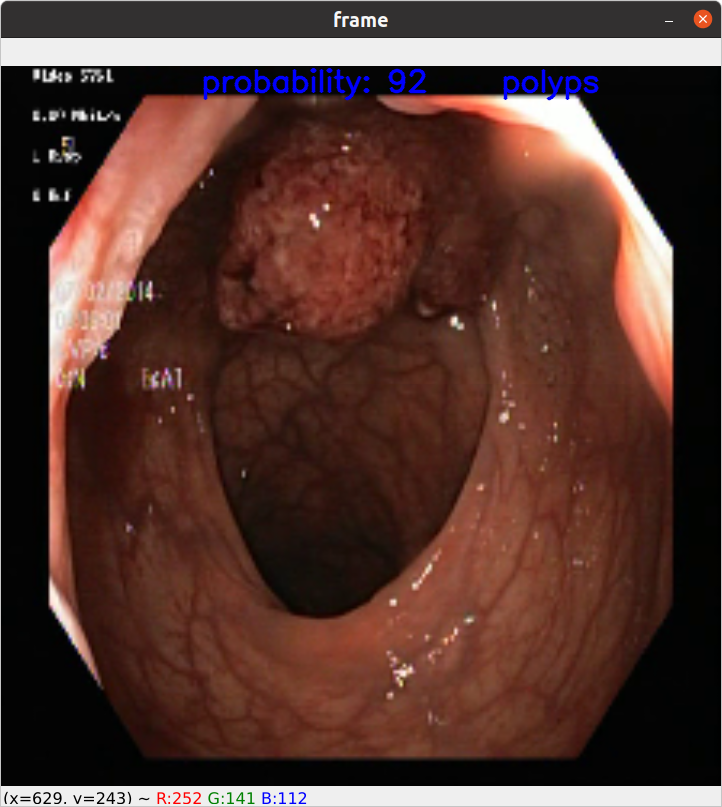
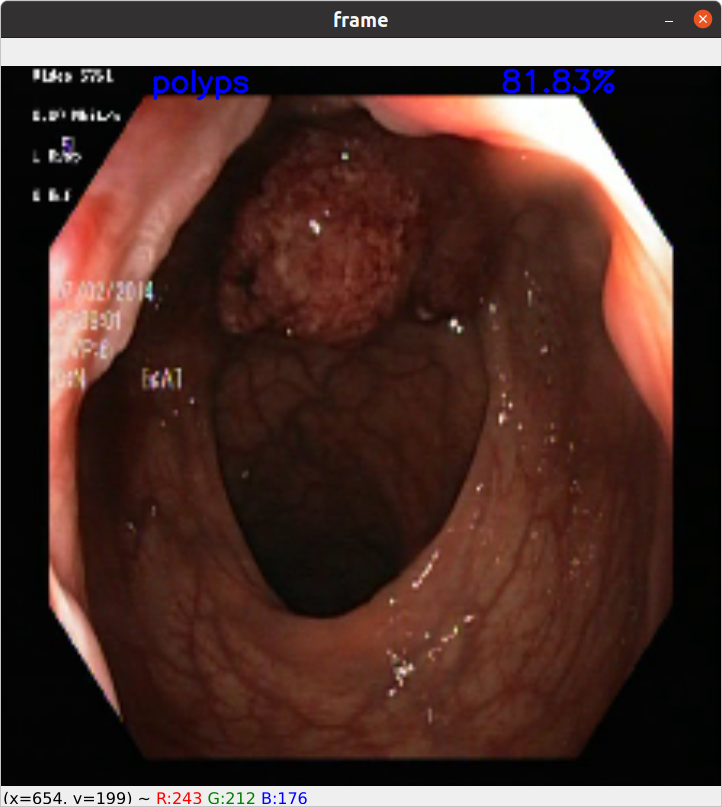
minor

diff --git a/test_on_video.py b/test_on_video.py
@@ -57,6 +57,7 @@ def visualization() -> None:
     model.load_weights('models_data/save_models/EfficientNetB0_imagenet_2021-05-18_00-39-10/EfficientNetB0.h5')
 
     cap = cv2.VideoCapture(args.path_video)
+    cap = cv2.VideoCapture('test_video/vid_2.avi')
 
     if not cap.isOpened():
         print("Error opening video stream or file")
@@ -70,8 +71,8 @@ def visualization() -> None:
             image, index_class = preparing_frame(image=frame, model=model)
             class_image = get_key(index, np.argmax(index_class))
             image = cv2.resize(image, (720, 720))
-            cv2.putText(image, class_image, (500, 25), cv2.FONT_HERSHEY_SIMPLEX, 1, (255, 0, 0), 2, cv2.LINE_AA)
-            cv2.putText(image, 'probability: ' + str(int(np.amax(index_class) * 100)) + '%', (200, 25),
+            cv2.putText(image, class_image, (150, 25), cv2.FONT_HERSHEY_SIMPLEX, 1, (255, 0, 0), 2, cv2.LINE_AA)
+            cv2.putText(image, str(float("{0:.2f}".format(np.amax(index_class) * 100))) + '%', (500, 25),
                         cv2.FONT_HERSHEY_SIMPLEX, 1, (255, 0, 0), 2, cv2.LINE_AA)
             cv2.imshow('frame', image)
 

diff --git a/logcallback.py b/logcallback.py
@@ -35,8 +35,7 @@ class LogCallback(keras.callbacks.Callback):
         with open(self.log_file, 'w') as file:
             json.dump(self.logs, file, indent=4)
 
-    def on_epoch_end(self, epoch: int, logs: Dict[str:float, str:float, str:float, str:float, str:float, str:float,
-                                                  str:float, str:float, str:float, str:float] = None) -> None:
+    def on_epoch_end(self, epoch: int, logs: Dict[str: float] = None) -> None:
         """
         This method prepares the data for writing to a json file and calls the method to save the json file.
         If  = self.save_model_every_epoch = True, then the model is saved every epoch.
